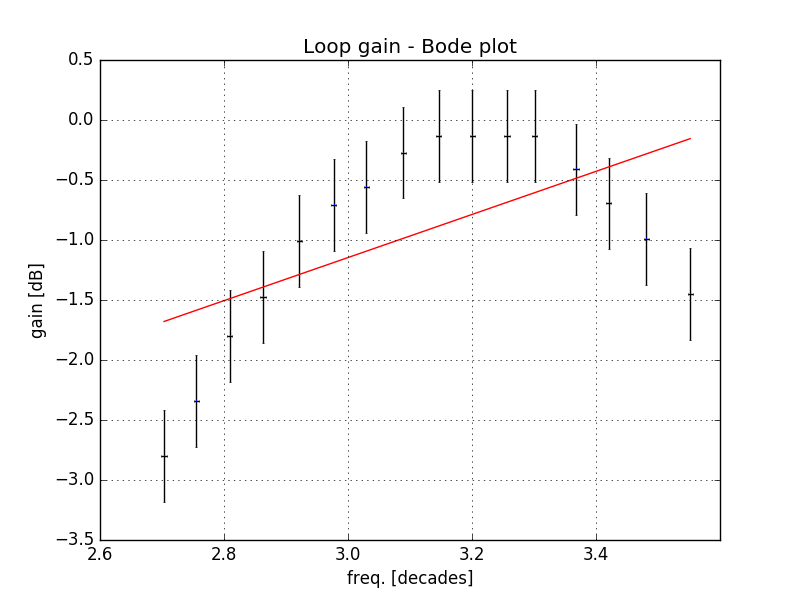
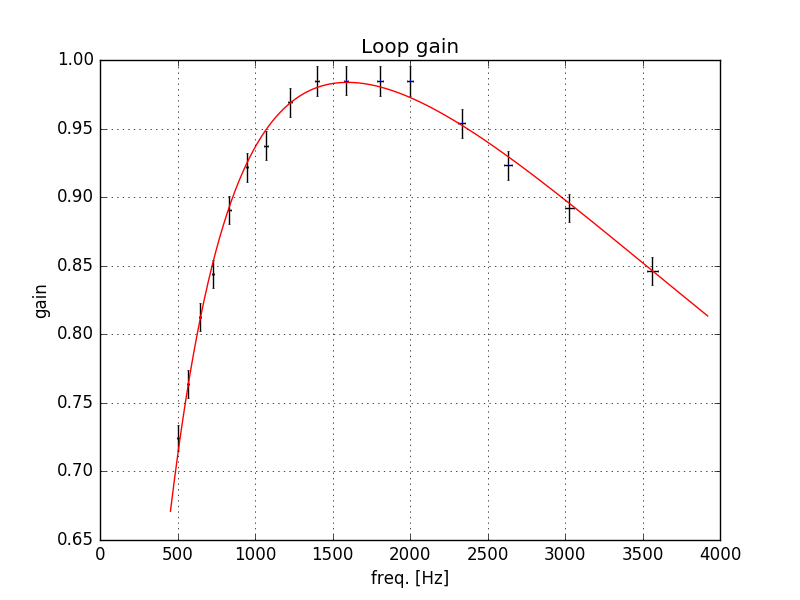
fatto il fit, c'è anche un bel bode-plot

diff --git a/BobLightyear.py b/BobLightyear.py
@@ -34,6 +34,8 @@ __all__ = [ # things imported when you do "from lab import *"
     'etastart',
     'etastr',
     'num2si',
+    'load_data',
+    'errors',
     'plot_fit',
     'chi2_calc',
     'pretty_print_chi2',
@@ -1132,7 +1134,7 @@ def xep(x, e, pm=None, comexp=True):
 def _XYfunction(a): # default for the x-y columns from the file entries
     return a[0], a[1]
 
-def _load_data(directory,file_):
+def load_data(directory,file_):
     # load the data matrix from the data file 
     
     data = loadtxt(directory+"data/"+file_+".txt", unpack = True)    
@@ -1141,7 +1143,7 @@ def _load_data(directory,file_):
 
     return data
 
-def _errors(data, units, XYfun):
+def errors(data, units, XYfun):
     # performs the error calculation, using mme
 
     # calculate data error with mme
@@ -1184,8 +1186,8 @@ def _preplot(directory, file_, X, Y, dX, dY, title_="", fig="^^",
 def _outlier_(directory, file_, units, X, XYfun):
     # mark the outlier on the data plot, read them from a specific file
 
-    data_ol = _load_data(directory,file_+"_ol")
-    X_ol, Y_ol, dX_ol, dY_ol, data_ol_err = _errors(data_ol, units, XYfun)
+    data_ol = load_data(directory,file_+"_ol")
+    X_ol, Y_ol, dX_ol, dY_ol, data_ol_err = errors(data_ol, units, XYfun)
 
     smin=min(min(X_ol),min(X))
     smax=max(max(X_ol),max(X))
@@ -1212,7 +1214,10 @@ def _residuals(fig, gne, gs, ax1, f, par, out, X, dX, Xlab, Xscale, Y, dY, X_ol=
     if out ==True:
         plot(X_ol, (Y_ol-f(X_ol,*par))/dY_ol, "^", color="green")
 
-def plot_fit(directory, file_, title_, units, f, par, out, fig, residuals, xlimp, XYfun, Xscale, Yscale, Xlab, Ylab, X, Y, dX, dY):
+def plot_fit(directory, file_, title_, units, f, par, X, Y, dX, dY, 
+             out=False, fig="^^", residuals=False,
+             xlimp=[100,100], XYfun=_XYfunction,
+             Xscale="linear", Yscale="linear", Xlab="", Ylab=""):
     """
         Parameters
         ----------    
@@ -1221,6 +1226,9 @@ def plot_fit(directory, file_, title_, units, f, par, out, fig, residuals, xlimp
         -------
 
     """    
+    if (fig == "^^"):
+        fig == file_
+
     gs = gridspec.GridSpec(4, 1)
     gne = figure(fig+"_1")
     if (fig == file_):
@@ -1379,8 +1387,8 @@ def fit(directory, file_, units, f, p0,
         -----
         
     """
-    data = _load_data(directory,file_)
-    X, Y, dX, dY, data_err = _errors(data, units, XYfun)
+    data = load_data(directory,file_)
+    X, Y, dX, dY, data_err = errors(data, units, XYfun)
 
     # define a default for the figure name
     if fig=="^^":
@@ -1394,7 +1402,10 @@ def fit(directory, file_, units, f, p0,
     par, cov = fit_generic_xyerr2(f,X,Y,dX,dY,p0)
     
     #Plotto il grafico con il fit e gli scarti
-    plot_fit(directory, file_, title_, units, f, par, out, fig, residuals, xlimp, XYfun, Xscale, Yscale, Xlab, Ylab, X, Y, dX, dY)
+    plot_fit(directory, file_, title_, units, f, par,
+             X, Y, dX, dY,
+             out, fig, residuals, xlimp, XYfun,
+             Xscale, Yscale, Xlab, Ylab)
 
     #Calcolo chi, errori e normalizzo la matrice di cov
     chi, sigma, normcov, p = chi2_calc(f, par, X, Y, dY, dX, cov)
@@ -1403,8 +1414,8 @@ def fit(directory, file_, units, f, p0,
     pretty_print_chi2(file_, par, sigma, chi, X, normcov, p)
 
     if out ==True:
-        data_ol = _load_data(directory,file_+"_ol")
-        X_ol, Y_ol, dX_ol, dY_ol, data_err_ol = _errors(data_ol, units, XYfun)
+        data_ol = load_data(directory,file_+"_ol")
+        X_ol, Y_ol, dX_ol, dY_ol, data_err_ol = errors(data_ol, units, XYfun)
     else:
         data_ol=[]
         data_err_ol=[]
@@ -1442,8 +1453,8 @@ def fast_plot(directory, file_, units, XYfun=_XYfunction, title_="",
         1, if all goes well
 
     """    
-    data = _load_data(directory,file_)
-    X, Y, dX, dY, data_err = _errors(data, units, XYfun)
+    data = load_data(directory,file_)
+    X, Y, dX, dY, data_err = errors(data, units, XYfun)
 
     # define a default for the figure name
     if fig=="^^":

diff --git a/Esercitazione8/Esercitazione8.py b/Esercitazione8/Esercitazione8.py
@@ -14,6 +14,7 @@ else:
 sys.path = sys.path + [path]
 
 from BobLightyear import *
+from pylab import log10
 
 dir= path + "Esercitazione8/"
 ###########################################################################
@@ -22,22 +23,54 @@ dir= path + "Esercitazione8/"
 
 file="loopgain"
 
-def f(x, a, b):
-    return a*x +b
+def f(x, a, b, c):
+#    return log10(a*(1/(1+(b/(10**x))**2)*1/(1+((10**x)/c)**2))**0.5)
+    return a*(1/(1+(b/x)**2)*1/(1+(x/c)**2))**0.5
 
-p0=[1,1]
+p0=[7.8,4.20e3,607]
 
 def XYfun(a):
-    return unumpy.log10(a[0]), 20*unumpy.log10(a[1]/a[3] )
+#    return unumpy.log10(a[0]), 20*unumpy.log10(a[1]/a[3])
+    return a[0], a[1]/a[3]
 
-unit = [("freq", "osc"),("volt", "osc"), ("time", "osc"), ("volt", "osc")]
+unit = [("freq", "osc"),("volt_nc", "osc"), ("time", "osc"), ("volt_nc", "osc")]
+
+titolo = "Loop gain"
+Xlab = "freq. [Hz]"
+Ylab = "gain"
+xlimp = [90, 110]
+
+tab = ["frequency [Hz]", "$V_A$ [V]", "$\\varphi$", "$V_A$ [V]"]
+
+fit(dir, file, unit, f, p0, titolo, Xlab, Ylab, XYfun, table=True, tab=tab, out=False, xlimp=xlimp)
+#devo ancora fargli fare il bode-plot, per il momento è su scala lineare
+
+###########################################################################
+
+#LOOP GAIN MODULI_plot#
+
+file="loopgain"
+
+fig = "loopgain_bode"
+
+def XYfun(a):
+    return unumpy.log10(a[0]), 20*unumpy.log10(a[1]/a[3])
+
+unit = [("freq", "osc"),("volt_nc", "osc"), ("time", "osc"), ("volt_nc", "osc")]
+
+data = load_data(dir,file)
+X, Y, dX, dY, data_err = errors(data, unit, XYfun)
+
+def f(x, a, b, c):
+    return 20*log10(a*(1/(1+(b/(10**x))**2)*1/(1+((10**x)/c)**2))**0.5)
+
+p0=[1.126,607,4.2e3]
 
 titolo = "Loop gain - Bode plot"
 Xlab = "freq. [decades]"
 Ylab = "gain [dB]"
+xlimp = [99.5, 101]
 
-tab = ["frequency [Hz]", "$V_A$ [V]", "$\\varphi$", "$V_A$ [V]"]
+plot_fit(dir, file, titolo, unit, f, p0, X, Y, dX, dY, fig=fig, xlimp=xlimp, XYfun=XYfun, Xlab=Xlab, Ylab=Ylab)
 
-fit(dir, file, unit, f, p0, titolo, Xlab, Ylab, XYfun, table=True, tab=tab, out=False)
 ###########################################################################
-
